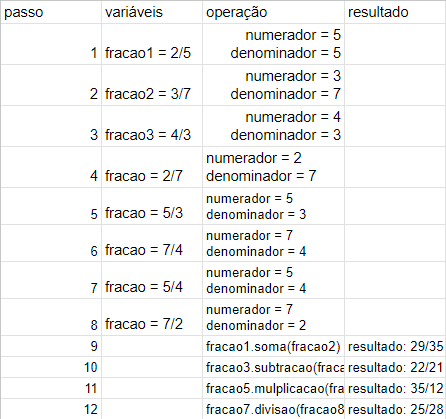
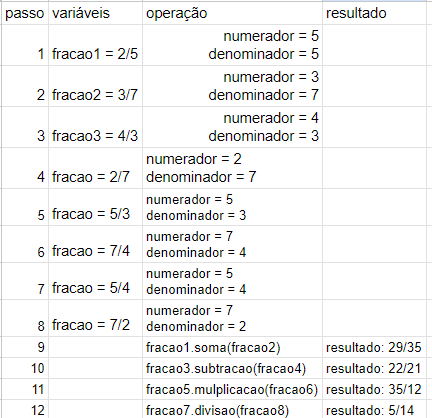
Atualizando teste de mesa

diff --git a/atividade 02/operacoesMatematicas/Divisao.java b/atividade 02/operacoesMatematicas/Divisao.java
@@ -16,7 +16,7 @@ public String divisao(int numerador1, int denominador1, int numerador2, int deno
 
     public static void main(String[] args) {
         Divisao primeirDivisao = new Divisao();
-        String resultado = primeirDivisao.divisao(2, 8, 5, 6);
+        String resultado = primeirDivisao.divisao(5, 4, 7, 2);
 
         System.out.println(resultado);
         }

diff --git a/atividade 02/operacoesMatematicas/Multiplicacao.java b/atividade 02/operacoesMatematicas/Multiplicacao.java
@@ -13,7 +13,7 @@ public class Multiplicacao {
 
     public static void main(String[] args) {
         Multiplicacao primeirMultiplicacao = new Multiplicacao();
-        String resultado = primeirMultiplicacao.multiplicacao(2, 4, 1, 2);
+        String resultado = primeirMultiplicacao.multiplicacao(5, 3, 7, 4);
 
         System.out.println(resultado);
     }

diff --git a/atividade 02/operacoesMatematicas/Subtracao.java b/atividade 02/operacoesMatematicas/Subtracao.java
@@ -28,7 +28,7 @@ public class Subtracao {
 
     public static void main(String[] args) {
         Subtracao primeiSubtracao = new Subtracao();
-        String resultado = primeiSubtracao.subtracao(2, 4, 2, 8);
+        String resultado = primeiSubtracao.subtracao(4, 3, 2, 7);
 
         System.out.println(resultado);
     }

diff --git a/atividade 02/operacoesMatematicas/Soma.java b/atividade 02/operacoesMatematicas/Soma.java
@@ -13,7 +13,7 @@ public class Soma{
 
     public static void main(String[] args) {
         Soma primeirDivisao = new Soma();
-        String resultado = primeirDivisao.somaFracoes(2, 10, 1, 5);
+        String resultado = primeirDivisao.somaFracoes(2, 5, 3, 7);
 
         System.out.println(resultado);
     }
